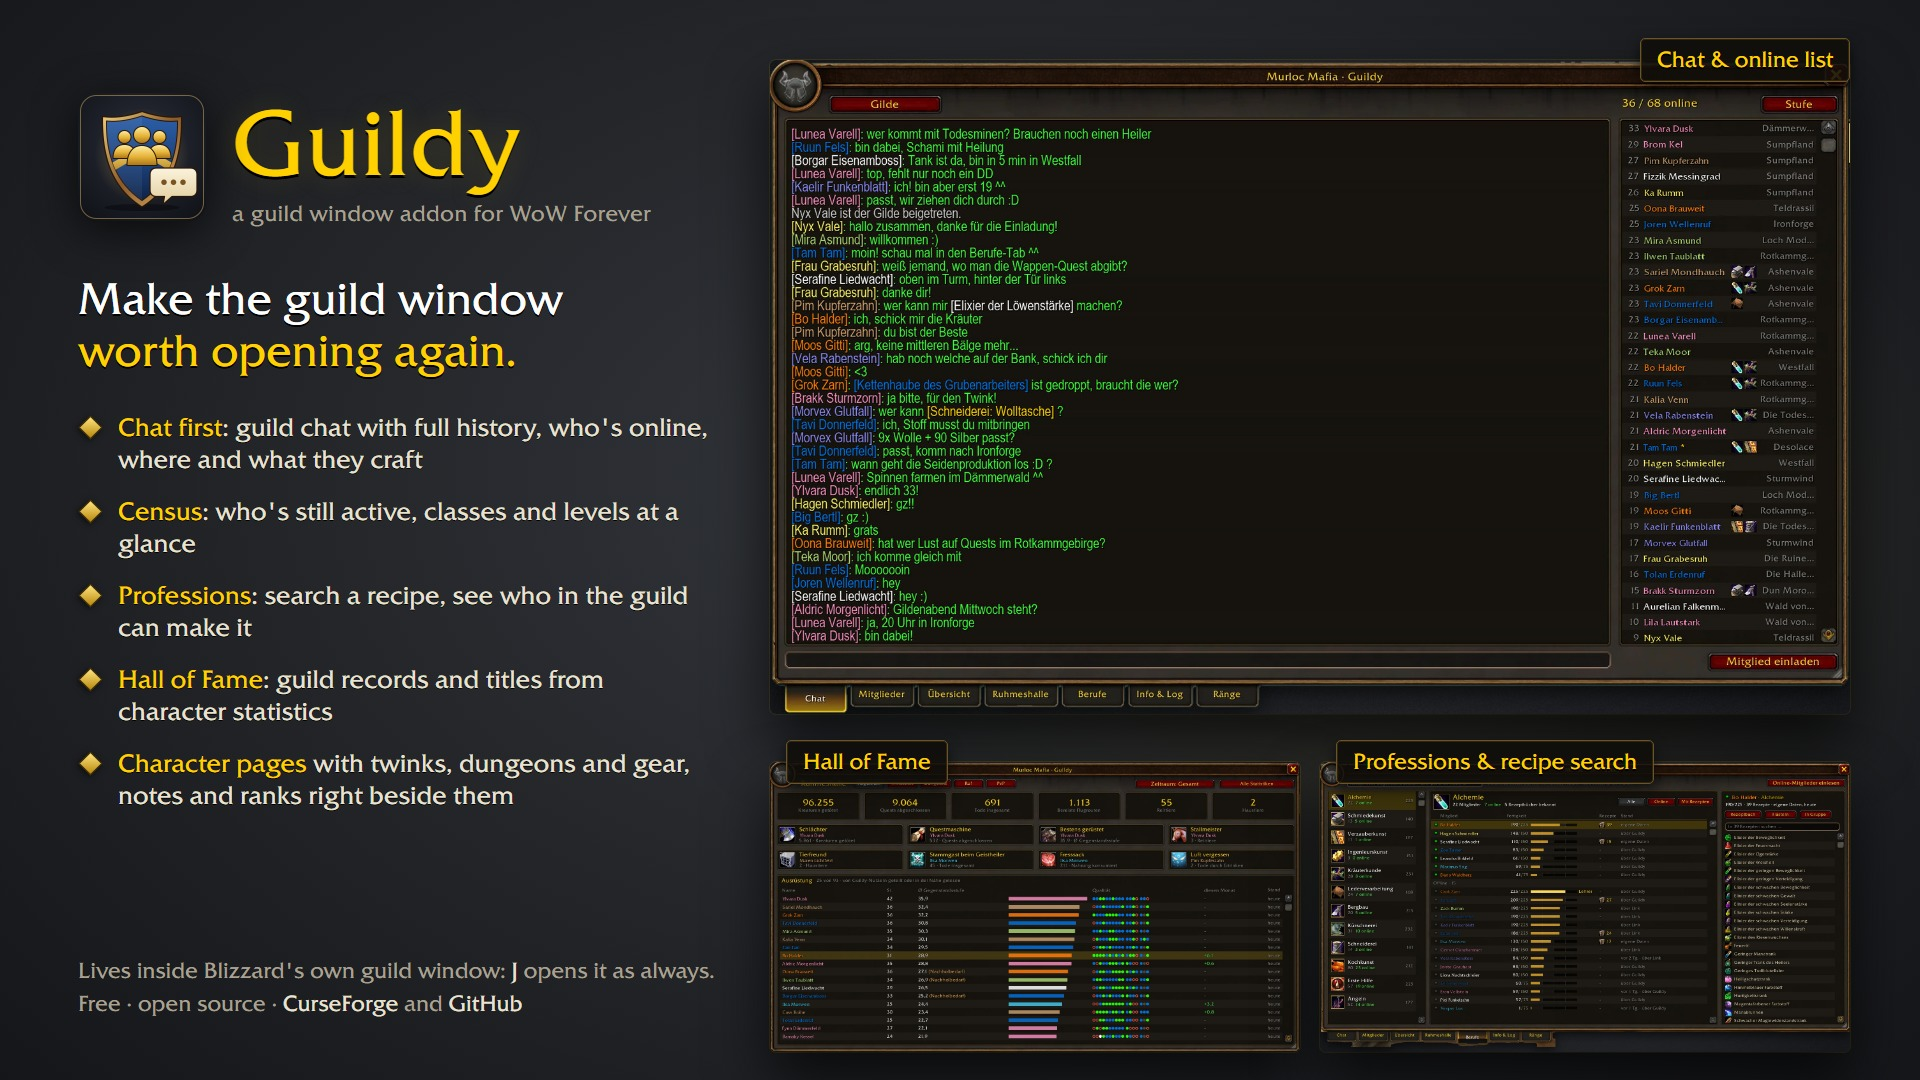
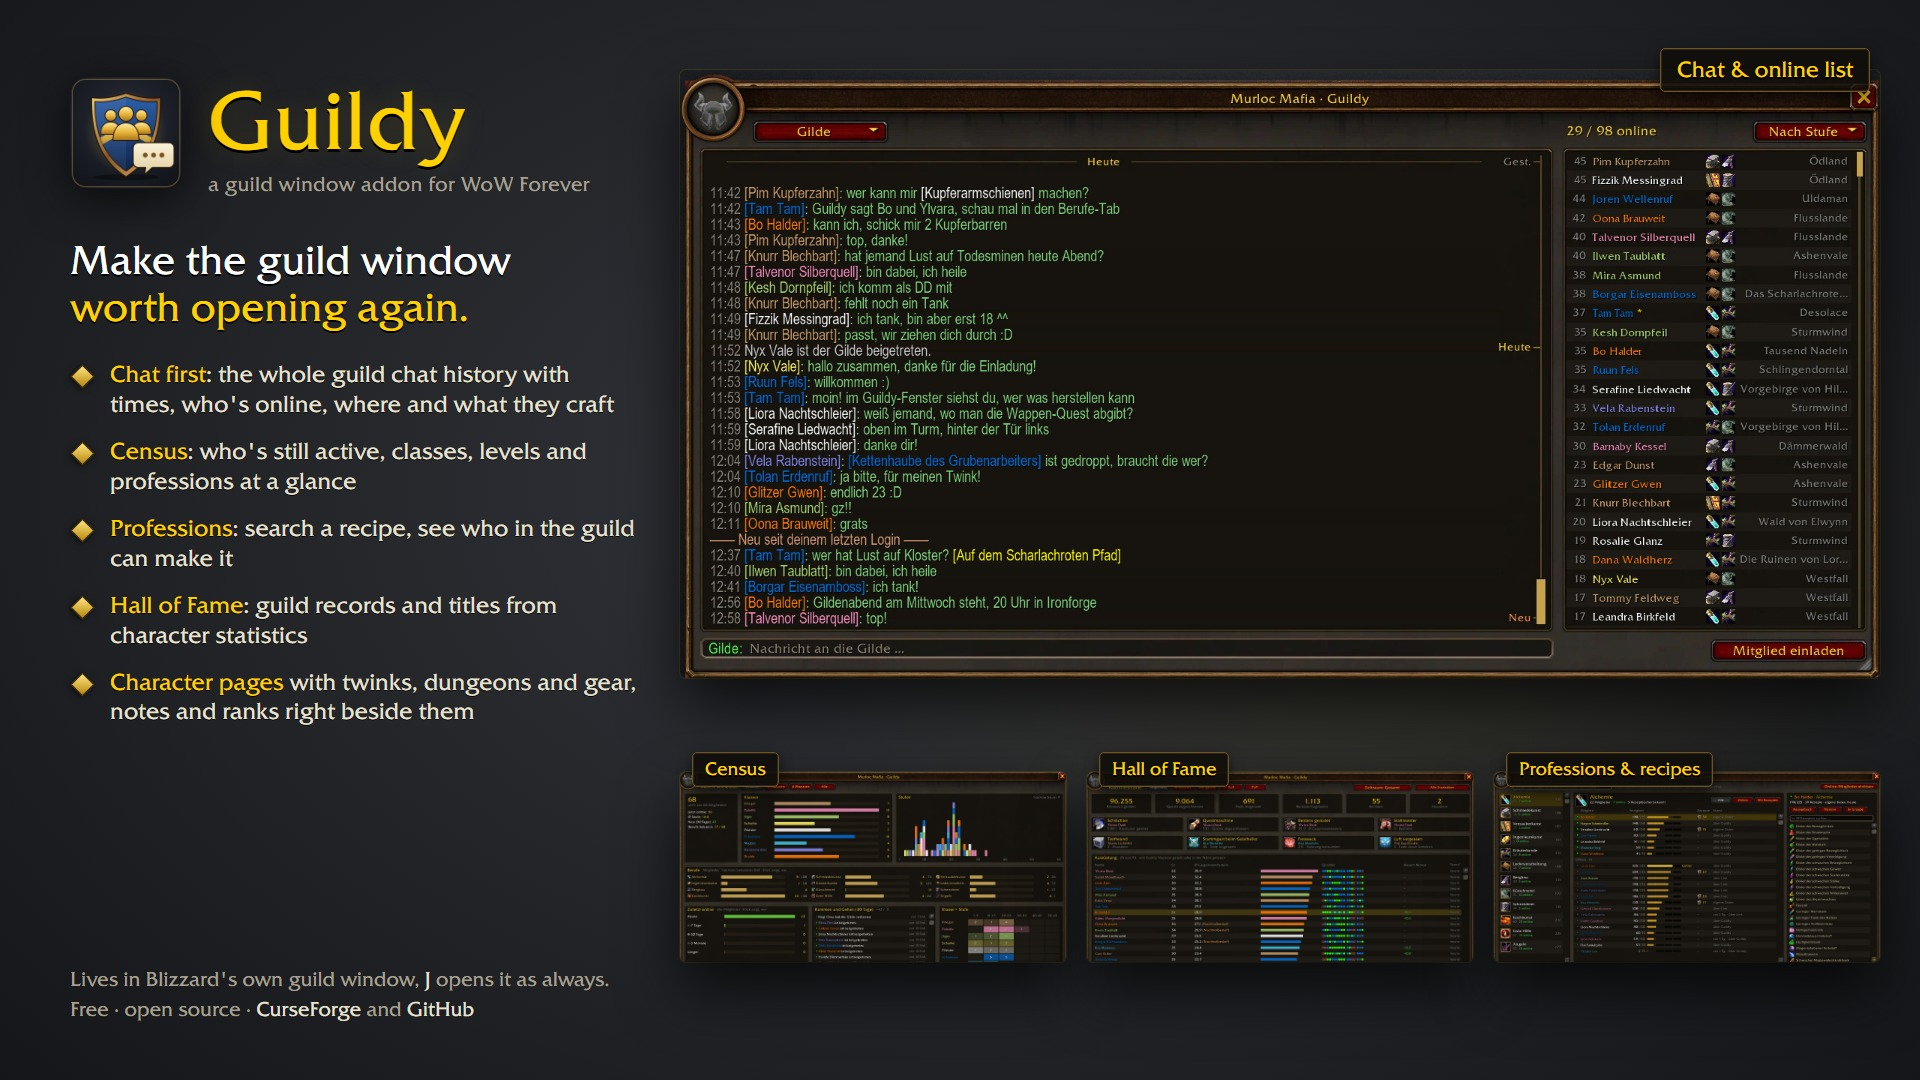
docs: overview image with the current chat and the census, gallery chat from the reworked chat

Changed region(s): [[0.0312, 0.0306, 1.0, 0.9778]]

diff --git a/media/gallery/promo.html b/media/gallery/promo.html
@@ -20,21 +20,21 @@ body {
 }
 
 /* left: what it is */
-.intro { position: absolute; left: 78px; top: 86px; width: 640px; }
+.intro { position: absolute; left: 70px; top: 70px; width: 570px; }
 .brand { display: flex; align-items: center; gap: 26px; }
-.brand img { width: 128px; height: 128px; filter: drop-shadow(0 10px 22px rgba(0,0,0,.65)); }
-h1 { font-size: 92px; color: var(--gold); font-weight: normal; letter-spacing: 1px; text-shadow: 0 3px 0 #000, 0 0 30px rgba(255,209,0,.15); }
-.for { font-size: 22px; color: var(--muted); margin-top: 2px; letter-spacing: .3px; white-space: nowrap; }
-.claim { font-size: 44px; line-height: 1.18; margin: 46px 0 34px; color: #fff; text-shadow: 0 2px 0 #000; }
+.brand img { width: 112px; height: 112px; filter: drop-shadow(0 10px 22px rgba(0,0,0,.65)); }
+h1 { font-size: 82px; color: var(--gold); font-weight: normal; letter-spacing: 1px; text-shadow: 0 3px 0 #000, 0 0 30px rgba(255,209,0,.15); }
+.for { font-size: 20px; color: var(--muted); margin-top: 2px; letter-spacing: .3px; white-space: nowrap; }
+.claim { font-size: 40px; line-height: 1.18; margin: 40px 0 30px; color: #fff; text-shadow: 0 2px 0 #000; }
 .claim em { color: var(--gold); font-style: normal; }
 ul { list-style: none; }
-li { font-size: 25px; line-height: 1.3; color: var(--text); margin-bottom: 19px; padding-left: 40px; position: relative; text-shadow: 0 1px 0 #000; }
+li { font-size: 23px; line-height: 1.3; color: var(--text); margin-bottom: 17px; padding-left: 40px; position: relative; text-shadow: 0 1px 0 #000; }
 li::before {
   content: ""; position: absolute; left: 4px; top: 8px; width: 15px; height: 15px; transform: rotate(45deg);
   background: linear-gradient(135deg, #ffe680, #b8860b); border: 1px solid #4a3500; box-shadow: 0 2px 6px rgba(0,0,0,.6);
 }
 li b { color: var(--gold); font-weight: normal; }
-.foot { position: absolute; left: 78px; bottom: 60px; width: 640px; font-size: 22px; color: var(--muted); line-height: 1.5; }
+.foot { position: absolute; left: 70px; bottom: 56px; width: 600px; font-size: 20px; color: var(--muted); line-height: 1.5; }
 .foot b { color: var(--text); font-weight: normal; }
 
 /* right: the window itself */
@@ -49,6 +49,7 @@ li b { color: var(--gold); font-weight: normal; }
   background: rgba(16, 14, 10, .88); border: 1px solid var(--edge); box-shadow: inset 0 0 0 1px var(--edge2), 0 6px 14px rgba(0,0,0,.6);
   padding: 7px 16px 8px; border-radius: 5px; white-space: nowrap;
 }
+.label.small { font-size: 18px; padding: 5px 12px 6px; }
 </style>
 </head>
 <body>
@@ -62,32 +63,37 @@ li b { color: var(--gold); font-weight: normal; }
     </div>
     <div class="claim">Make the guild window<br><em>worth opening again.</em></div>
     <ul>
-      <li><b>Chat first</b>: guild chat with full history, who's online, where and what they craft</li>
-      <li><b>Census</b>: who's still active, classes and levels at a glance</li>
+      <li><b>Chat first</b>: the whole guild chat history with times, who's online, where and what they craft</li>
+      <li><b>Census</b>: who's still active, classes, levels and professions at a glance</li>
       <li><b>Professions</b>: search a recipe, see who in the guild can make it</li>
       <li><b>Hall of Fame</b>: guild records and titles from character statistics</li>
       <li><b>Character pages</b> with twinks, dungeons and gear, notes and ranks right beside them</li>
     </ul>
   </div>
   <div class="foot">
-    Lives inside Blizzard's own guild window: <b>J</b> opens it as always.<br>
+    Lives in Blizzard's own guild window, <b>J</b> opens it as always.<br>
     Free · open source · <b>CurseForge</b> and <b>GitHub</b>
   </div>
 
-  <!-- each screenshot cut to Guildy's window: x0, y0, width, height of the window in the 1920x1080 image -->
-  <div class="shot" style="left: 770px; top: 60px; width: 1080px; height: 654px;">
-    <img src="01-chat.jpg" alt="" style="width: 1225.5px; margin: -19.1px 0 0 -51.1px;">
+  <!-- each screenshot cut to Guildy's window (the small ones without the tab row) -->
+  <div class="shot" style="left: 680px; top: 70px; width: 1200px; height: 608px;">
+    <img src="01-chat.jpg" alt="" style="width: 1440px; margin: -84px 0 0 -120px;">
   </div>
-  <div class="label" style="left: 1640px; top: 38px;">Chat &amp; online list</div>
+  <div class="label" style="left: 1660px; top: 48px;">Chat &amp; online list</div>
 
-  <div class="shot" style="left: 770px; top: 762px; width: 530px; height: 290px;">
-    <img src="04-hall-of-fame.jpg" alt="" style="width: 612.3px; margin: -19.8px 0 0 -30px;">
+  <div class="shot" style="left: 680px; top: 772px; width: 386px; height: 190px;">
+    <img src="03-overview.jpg" alt="" style="width: 439.9px; margin: -7.8px 0 0 -19.2px;">
   </div>
-  <div class="label" style="left: 786px; top: 740px;">Hall of Fame</div>
+  <div class="label small" style="left: 692px; top: 752px;">Census</div>
 
-  <div class="shot" style="left: 1320px; top: 762px; width: 530px; height: 290px;">
-    <img src="09-professions.jpg" alt="" style="width: 569.1px; margin: -18.4px 0 0 -20.2px;">
+  <div class="shot" style="left: 1087px; top: 772px; width: 386px; height: 190px;">
+    <img src="04-hall-of-fame.jpg" alt="" style="width: 447.8px; margin: -15.4px 0 0 -22.9px;">
   </div>
-  <div class="label" style="left: 1336px; top: 740px;">Professions &amp; recipe search</div>
+  <div class="label small" style="left: 1099px; top: 752px;">Hall of Fame</div>
+
+  <div class="shot" style="left: 1494px; top: 772px; width: 386px; height: 190px;">
+    <img src="09-professions.jpg" alt="" style="width: 416.1px; margin: -14.3px 0 0 -15.6px;">
+  </div>
+  <div class="label small" style="left: 1506px; top: 752px;">Professions &amp; recipes</div>
 </body>
 </html>

diff --git a/media/gallery/build.py b/media/gallery/build.py
@@ -125,16 +125,18 @@ def stamp(img, spr, x, y):
 
 def cutout_rect(im, rect):
     """For screenshots where the world behind the window is neither sky nor night: cut along the measured
-    outer frame `rect` (x0, y0, x1, y1), plus the portrait ring and the tabs below (dark shapes)."""
+    outer frame `rect` (x0, y0, x1, y1[, tab_h]), plus the portrait ring and the tabs below (dark shapes in
+    the tab_h px under the frame; less where dark ground lies right under the tabs)."""
     a = np.asarray(im).astype(int)
     h, w = a.shape[:2]
-    x0, y0, x1, y1 = rect
+    x0, y0, x1, y1, *rest = rect
+    tab_h = rest[0] if rest else 52
     fg = np.zeros((h, w), bool)
     fg[y0:y1 + 1, x0:x1 + 1] = True
     yy, xx = np.mgrid[0:h, 0:w]
     fg |= (xx - (x0 + 39)) ** 2 + (yy - (y0 + 37)) ** 2 <= 45 ** 2
     tz = np.zeros((h, w), bool)
-    tz[y1 + 1:min(h, y1 + 52), x0 + 20:x0 + 790] = True
+    tz[y1 + 1:min(h, y1 + tab_h), x0 + 20:x0 + 790] = True
     dark = Image.fromarray(((a.sum(2) < 200) & tz).astype(np.uint8) * 255)
     dark = dark.filter(ImageFilter.MaxFilter(11)).filter(ImageFilter.MinFilter(11))
     fg |= (np.asarray(dark) > 0) & tz
